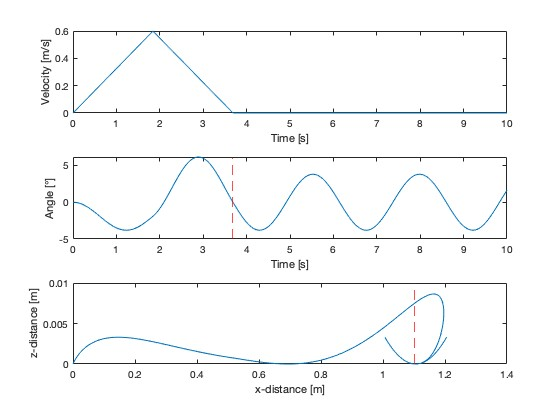
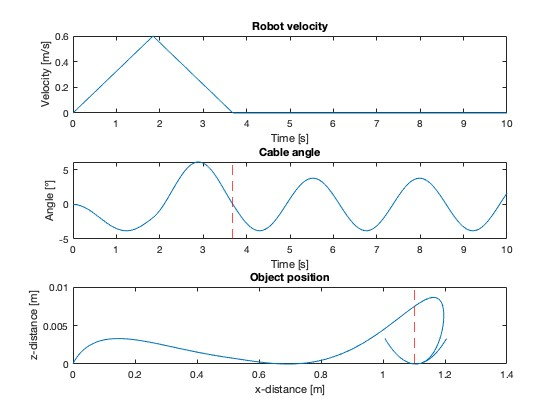
update matlab

diff --git a/Matlab/Simulations/transferfunction.m b/Matlab/Simulations/transferfunction.m
@@ -167,6 +167,7 @@ for input_type = 1:3
     plot(time, velocity)
     xlabel('Time [s]')
     ylabel('Velocity [m/s]')
+    title('Robot velocity')
     
 
     subplot(3,1,2)
@@ -174,7 +175,8 @@ for input_type = 1:3
     xlabel('Time [s]')
     ylabel('Angle [°]')
     hold on
-    xline(x(end)/0.3, 'Color', 'r', 'LineStyle', '--');
+    xline(x(end)/0.3, 'Color', 'r', 'LineStyle', '--')
+    title('Cable angle')
     %yline(theta_opt, 'Color', 'g', 'LineStyle', '--');
     
     
@@ -184,5 +186,6 @@ for input_type = 1:3
     ylabel('z-distance [m]')
     hold on
     xline(x(end), 'Color', 'r', 'LineStyle', '--');
+    title('Object position')
 end
 
